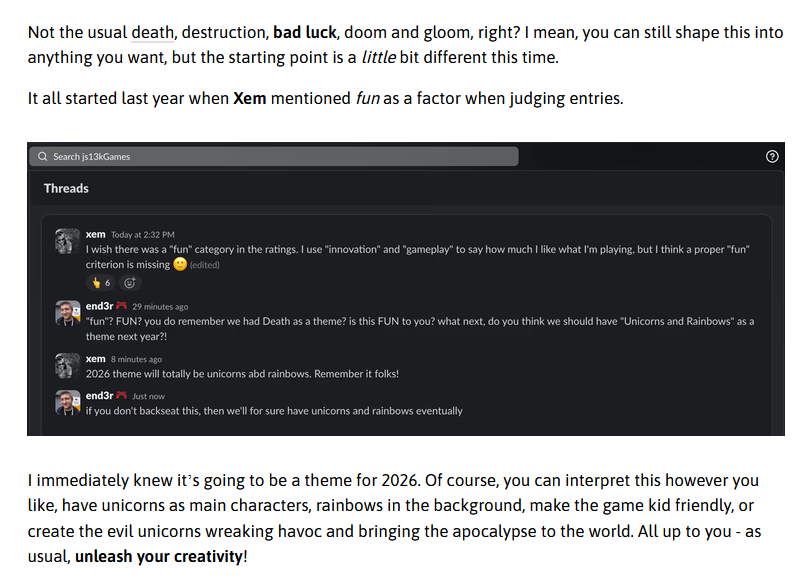
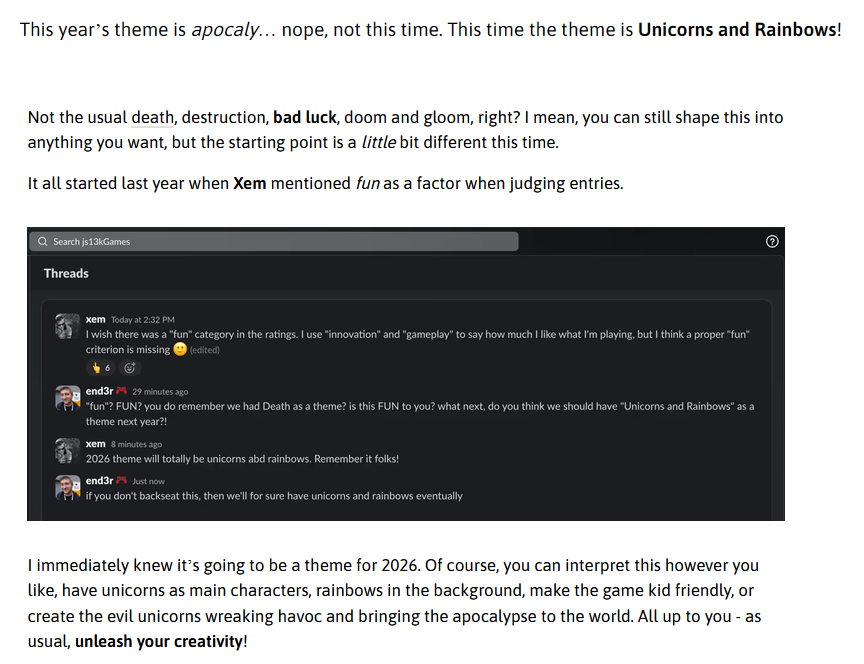
wip

diff --git a/articles/js13k26.html b/articles/js13k26.html
@@ -312,51 +312,47 @@ b0.onclick = () => {
 <p>It's already august 13th and the theme is... <b>Unicorns and rainbows</b> ?!
 <p>The <a href="https://js13kgames.com/2026/blog/competition-has-started">announcement post</a> directly cites a conversation End3r had with me as the inspiration for this year's theme!
 
-<p><img src="images/js13k26/1.png" width=400>
+<p><img src="images/js13k26/1.png" width=600>
 
 <p>What an honor! (and sorry for all the devs bothered by this theme, hehe 😈)
 
 <p>To celebrate this fun fact, I coded a little text / piano animation and posted it on X.
 
-<p><video controls src="images/js13k26/1.mp4" width=500></video>
-<p><img src="images/js13k26/2.png" width=500>
+<p><video controls src="images/js13k26/1.mp4" width=600></video>
+<p><img src="images/js13k26/2.png" width=600>
 
 <p>In the meantime, I brainstormed with my friends and my love, Sev, on that theme.
 
-<p>The very first idea that came to my mind was a kart game with unicorns on a rainbow road...
-<br>but that didnt seem original enough.
-<br>(Note from later: at least 15 other entries revolved around this idea, and most of them were much better than what I could have done myself, so no regrets!)
+<p>The very first idea that came to my mind was a <b>kart game</b> with unicorns on a rainbow road... but that didnt seem original enough.
+<br>(Note from later: at least 15 other entries revolved around this idea, and did it very vell, so no regrets!)
 
-<p>Our second idea was a game where the player has to revive a word that has lost all its colors.
+<p>Our second idea was a game where the player has to <b>revive a word that has lost all its colors</b>.
 <br>Kinda like what happens in the indie game <a href="https://en.wikipedia.org/wiki/Gris">GRIS</a>.
-<br>That idea was also going to be present in many entries this year, but I still decided to go for it, because there were more possibilities to create a truly unique experience.
-<br>Another thing that I knew is that I wanted to include a mechanic that I (surprisingly) haven't ever used in a JS13k entry: 2D scrolling.
+<br>That idea was also going to be in many entries this year, but I still decided to go for it, as it allowed to create a truly unique experience.
+<p>There's also one mechanic that I knew I wanted to include this year (for some reason, I never put it in a JS13k entry): <b>2D scrolling</b>.
 
-<p>The more I thought about this, the more I wanted to make a little cute game where the player has to draw things on screen using pens, or crayons, or markers.
-<br>Hm... Crayons would be cool, I think!
+<p>After thinking about it, I decided that I wanted to make a little cute game where the player has to <b>draw things on screen using crayons</b>.
 
-<p>My references on this domain are the games <a href="https://en.wikipedia.org/wiki/Crayon_Physics_Deluxe">Crayon Physics</a>, <a href="https://en.wikipedia.org/wiki/Max_%26_the_Magic_Marker">Max and the Magic Marker</a> and <a href="https://en.wikipedia.org/wiki/Drawn_to_Life">Drawn to Life</a> (but many others exist)
+<p>My references on this domain are the games <a href="https://en.wikipedia.org/wiki/Crayon_Physics_Deluxe">Crayon Physics Deluxe</a>, <a href="https://en.wikipedia.org/wiki/Max_%26_the_Magic_Marker">Max and the Magic Marker</a> and <a href="https://en.wikipedia.org/wiki/Drawn_to_Life">Drawn to Life</a> (but many others exist)
 
 <p>The game could take place on an unicorn's island, where 7 magic crayons have disappeared, and finding them could allow us to draw characters or objects that help us continue the adventure.
 
-<p>Here are the notes I took on my little notepad (no drawings or storyboard this time, just text...).
-<br>The final game isn't very far from it!
-<br>However, on day 1, my idea was way too ambitious...
-<br>In my head, the "drawing" phases were linked with platformer/puzzle sections.
+<p>Here are the notes I took on my little notepad (no drawings or storyboard this time, just text...). The final game isn't very far from it!
+<p><img src="images/js13k26/3.jpg" width=600>
+<br>However, on day 1, my idea was way too ambitious... In my head, the "drawing" phases were interleaved with platformer/puzzle sections.
 <br>In the final game, the drawings simply happen at the end of little cutscenes, making it a sort of interactive story (something I hadn't tried before either).
 
-<p><img src="images/js13k26/3.jpg" width=600>
 
 <p>And here's a concept art by Sev.
-<p><img src="images/js13k26/4.jpg" width=500>
+<p><img src="images/js13k26/4.jpg" width=600>
 
-<p>There's an idea I missed though: I didn't notice the resemblance between "Unicorn" and another passion of mine, "Unicode".
-<br>Very fun things could have been done using Unicode characters.
-<br>Fortunately, a couple of excellent entries implemented that idea during the jam, so all is not lost.
+<p>About the theme: there's an idea I missed: I didn't notice the resemblance between "Unicorn" and another passion of mine, "Unicode".
+<br>Very fun things could have been done using Unicode characters. Fortunately, some great entries implemented that idea, so all is not lost.
 
-<p><b>Days 3-9: title screen and intro</b>
+<p><b>Days 3 - 9: title screen and intro</b>
 
-<p>More and more certain that my game will contain lots of animations, and that I won't have the full month free for coding, I started with the title screen (a magic island made of CSS3D and emoji), and the real game's introduction sequence (where the magic crayons disappear from the island). The crayons are made in SVG. For simplicity, the unicorn will be made from emojis and SVG instead of letting the player draw it.
+<p>More and more certain that my game will contain lots of animations, and that I won't have the full month free for coding, I started with the title screen (a magic island made of CSS3D and emoji), and the game's introduction sequence (where the magic crayons disappear from the island).
+<br>The unicorn will finally be made from emojis and SVG instead of letting the player draw it.
 
 <p>Title screen progression:
 
@@ -375,27 +371,104 @@ b0.onclick = () => {
 <p><img src="images/js13k26/6.png" width=600>
 <br>
 <br>
+
+<p>Here's the code that generates the custom SVG crayons:
+<pre class=lang-js><code>crayon = (color = "#ffffff") => {
+  return '&lt;svg width="198" height="198" xmlns="http://www.w3.org/2000/svg">&lt;path d="M30 10L10 40L10 140A12 2 0 0 0 50 140L50 40Z" fill="' + color + '" stroke="#000000"/>&lt;path d="M10 40A12 2 0 0 0 50 40L38 22L22 22Z" fill="#f2952c" stroke="#000000"/>&lt;ellipse cx="25" cy="56" rx="2" ry="5" fill="#000000" stroke="#000000"/>&lt;ellipse cx="33" cy="56" rx="2" ry="5" fill="#000000" stroke="#000000"/>&lt;path d="M20 65Q30 72 37 65Q40 65 39 68Q29 75 21 69Q17 67 20 65" fill="#000000" stroke="#000000"/>&lt;/svg>';
+};</code></pre>
+
+<p>Demo:
+
+<p><div id=crayondemo style="width:130px;height:180px;display:inline-block;background:#fff;padding:10px 0 0 30px"></div>
+
+<br><input type=range mon=0 max=360 step=1 id=crayonrange> Hue
+
+<script>
+crayon = (color = "#ffffff") => {
+  return '<svg width="198" height="198" xmlns="http://www.w3.org/2000/svg">' +
+    '<path d="M30 10L10 40L10 140A12 2 0 0 0 50 140L50 40Z" fill="' + color + '" stroke="#000000"/>' +
+    '<path d="M10 40A12 2 0 0 0 50 40L38 22L22 22Z" fill="#f2952c" stroke="#000000"/><ellipse cx="25" cy="56" rx="2" ry="5" fill="#000000" stroke="#000000"/><ellipse cx="33" cy="56" rx="2" ry="5" fill="#000000" stroke="#000000"/><path d="M20 65Q30 72 37 65Q40 65 39 68Q29 75 21 69Q17 67 20 65" fill="#000000" stroke="#000000"/>' +
+    
+    //"M5 15Q15 22 22 15Q25 15 24 18Q14 25 6 19Q2 17 5 15"
+    '</svg>';
+};
+
+const hslToHex = (h,s,l) => {
+    h /= 360;
+    s /= 100;
+    l /= 100;
+    let r, g, b;
+    if (s === 0) {
+        r = g = b = l;
+    } else {
+        const hue2rgb = function (p, q, t) {
+            if (t < 0) t += 1;
+            if (t > 1) t -= 1;
+            if (t < 1 / 6) return p + (q - p) * 6 * t;
+            if (t < 1 / 2) return q;
+            if (t < 2 / 3) return p + (q - p) * (2 / 3 - t) * 6;
+            return p;
+        };
+        const q = l < 0.5 ? l * (1 + s) : l + s - l * s;
+        const p = 2 * l - q;
+        r = hue2rgb(p, q, h + 1 / 3);
+        g = hue2rgb(p, q, h);
+        b = hue2rgb(p, q, h - 1 / 3);
+    }
+    const toHex = function (x) {
+        const hex = Math.round(x * 255).toString(16);
+        return hex.length === 1 ? '0' + hex : hex;
+    };
+    return '#' + toHex(r) + toHex(g) + toHex(b);
+};
+
+function hueToRgb(p, q, t) {
+  if (t < 0) t += 1;
+  if (t > 1) t -= 1;
+  if (t < 1/6) return p + (q - p) * 6 * t;
+  if (t < 1/2) return q;
+  if (t < 2/3) return p + (q - p) * (2/3 - t) * 6;
+  return p;
+}
+
+crayonrange.onchange = crayonrange.oninput = () => {
+  hue = crayonrange.value;
+  crayondemo.innerHTML = crayon(hslToHex(hue, 50, 50));
+}
+
+crayondemo.innerHTML = crayon();
+
+</script>
+<br><br>
 <p>The intro is much darker than I had anticipated on days 1 and 2.
 <br>When I made it, I thought it would create an interesting contrast with the whimsical theme and title screen.
 <br>Some testers remarked the irony of the fire appearing under the rain, that was intentional.
 
-<p>Fun fact: We're only a few seconds in-game and my entry has already used 4 different rendering techniques (Emoji, CSS3D, SVG and 2D canvas).
-<br>CSS3D is used on the title screen, and stops being used when the fire starts (CSS is super useful for all the animations happening there).
-<br>From the dead tree, up to the end of the game, everything is rendered on a 2D canvas (on 4 canvases, actually: one for the background, one for the rain, one for the drawing board and one for the actual drawings), plus CSS gradients for the sky and god rays, and HTML buttons when necessary.
+<p>Fun fact: We're only a few seconds in-game and my entry has already used <b>4 different rendering techniques</b> (Emoji, CSS3D, SVG and 2D canvas).
+<br>CSS3D is used on the title screen and in the intro and stops being used after the fire starts.
+<br>From the dead tree apparition, up to the end of the game, everything is rendered on a 2D canvas (on 4 canvases actually: one for the scene, one for the rain, one for the drawing board and one for the actual drawings).
+<br>Besides these canvases, CSS gradients are used for the sky and the god rays, and HTML buttons and text are added when necessary.
 
-<br>After the title screen, my code was 12kb commented, and 2.6kb zipped.
-<br>After the intro, my code was 19.5kb, and 3.3kb zipped, including rain and thunder sound.
+<p>After making the title screen, my code was 12kb commented, and 2.6kb zipped.
+<br>After making the intro, my code was 19.5kb, and 3.3kb zipped, including rain and thunder sound.
 
-<p>When we arrive to the first drawing board (after the dead tree and sad unicorn face), the commented code is 23kb, and 4kb zipped.
-<p>The emoji webfont used in the final version is different from the games I made between 2017 and 2025: this year I found that Twemoji was too pixellized AND out-of-date.
-<br>On the other hand, Google's Noto Color Emoji supported vectorial emoji on all browsers and Unicode 17.0.
+<br>When we arrive to the first drawing board (after the dead tree and sad unicorn face), the commented code is 23kb, and 4kb zipped.
+
+<p>The <b>emoji webfont</b> used in the final version is different from the games I made between 2017 and 2025:
+<br>this year I found that Twemoji was too pixellized (Bitmap graphics) and out-of-date (Unicode 15).
+<br>On the other hand, Google's Noto Color Emoji supported vectorial (infinitely scalable) graphics on all browsers, and Unicode 17.0.
 <br>Switching to this font (and <a href="https://github.com/xem/ttf/">hosting it for easy reuse</a>) has been a great help for improving my entry's graphics.
-<p>Alas, this year has also been the scene for <i>The Great Emoji Font Drama</i>...
-<br>To summarize, in the Alkor and End3r started enforcing the js13k rule that says "webfont polyfills can be loaded with the authorization of the player", mid-jam.
-<p>All the devs who had started using Twemoji or Noto Color Emoji for free, as they did the years before, were suddenly seen as some kind of cheaters, and were asked to add a screen asking for the player's consent.
-<br>My entry, who loaded the Noto Color Emoji *AND* Comic Sans MS (which I both consider "webfont polyfills", as they're not natively present on every OS) was the most frowned upon, and I had to free a few hundred bytes, ask consent for the emoji font, remove the comic sans MS font entirely, all that that while being on holidays 1,400km from my home.
-<p><img src="images/js13k26/7.png" width=500>
-<br>That was really not fun. I wasn't trying to cheat anyone, just making the best possible experience for everyone.
+<p>Alas, this year has also been the scene for <b><i>The Great Emoji Font Drama</i></b>...
+<p>To summarize it, Alkor and End3r enforced a strict interpretation of the JS13k rule "webfont polyfills can be loaded with the authorization of the player", mid-jam.
+<p>All the devs who had started using emoji fonts, or regular fonts, for free, as they did the years before, were suddenly seen as some kind of cheaters, and were asked to add a screen asking for the player's consent. This provoked a long debate on Slack.
+
+<p>My entry, who loaded the Noto Color Emoji *AND* Comic Sans MS (which I both consider legitimate "webfont polyfills", as they're not natively present on every OS) was the most frowned upon. Sadly, I had to free a few hundred bytes to ask consent for the emoji font, and remove the comic sans MS font entirely, all that that while being on holidays 1,400km from my home.
+
+<p>So that's the reason why my game starts with this screen:
+
+<p><img src="images/js13k26/8.png" width=600>
+
+<p>That episode was really not fun, especially considering that I was only trying to make the best experience for everyone.
 <br>I hope the process for allowing emoji polyfills will be clearer and more dev-friendly before the 2027 edition.
 <br>IMO, the emoji font(s) should be served by js13kgames.com and useable for free in any entry.
 <br>Disclosing the use of such fonts could be simplified by checking a dedicated checkbox in the submission form, which would automatically write an "external font used" mention in the entry's page.
